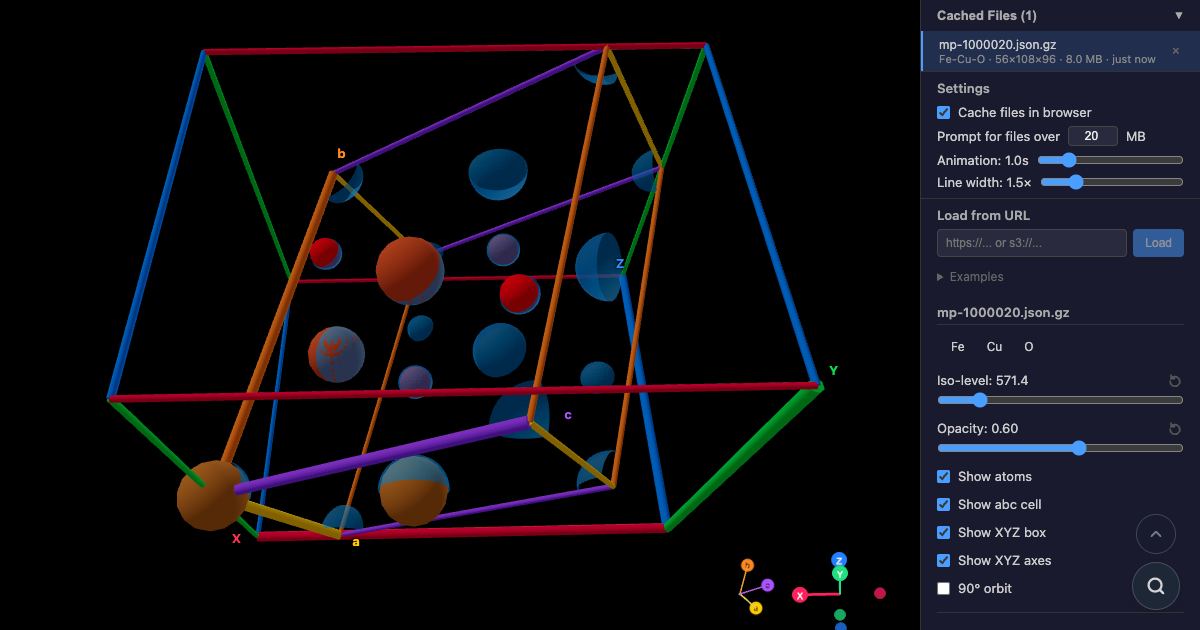
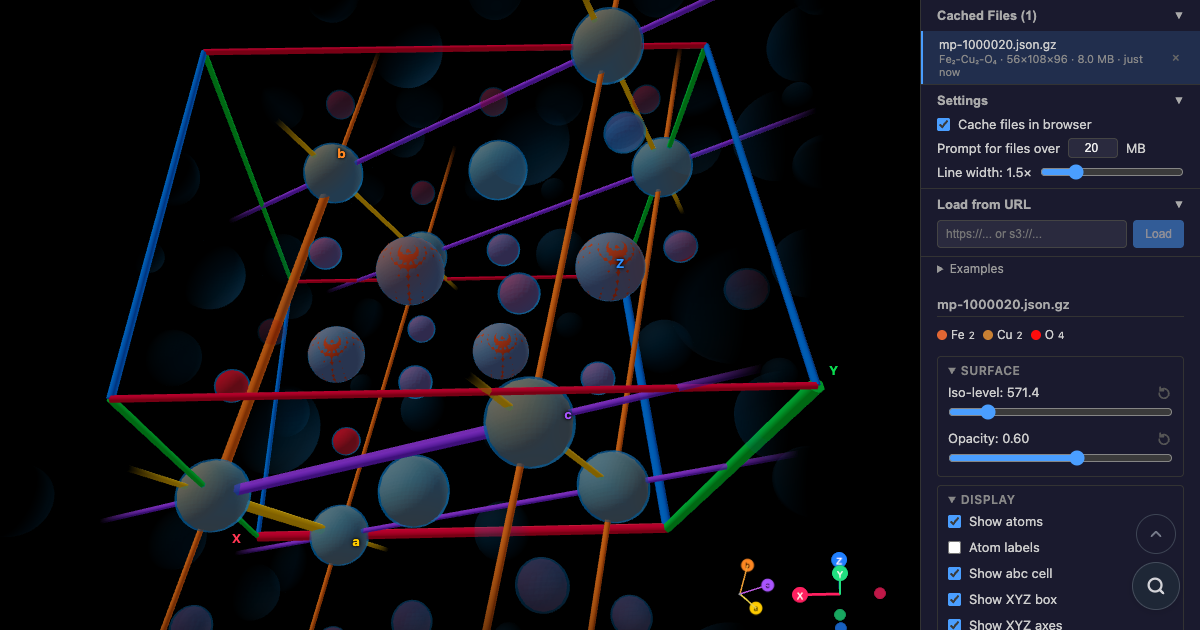
Regen screencasts, add tiling-slice-sweep GIF to README
- Regen all scrns: og-image, orbit-updown, slice-sweep, tiling-slice-sweep
- `tiling-slice-sweep` config: baked camera angle + `?ct=` pan offset
- README: add tiling-slice-sweep GIF, document new URL params (`ct`, `sl`, `ss`, `tp`, `nf`)

🤖 Generated with [Claude Code](https://claude.com/claude-code)

diff --git a/pkgs/static/scrns.config.ts b/pkgs/static/scrns.config.ts
@@ -45,6 +45,25 @@ const screens: ScreenshotsMap = {
       { type: 'wait', duration: 4000 },
     ],
   } satisfies ScreencastConfig,
+  'tiling-slice-sweep': {
+    query: '?iso=571.4&c=70.1+54.6+13.5+-88&od=30&si=0&a=0.5&tp=0.5&ss=20&ct=0.426+-0.56+-0.00378&sl',
+    width: 800,
+    height: 600,
+    selector: 'canvas',
+    preScreenshotSleep: 5000,
+    path: 'tiling-slice-sweep.gif',
+    fps: 30,
+    gifQuality: 10,
+    actions: [
+      { type: 'wait', duration: 500 },
+      { type: 'key', key: 'Meta+Shift+ArrowLeft', duration: 100 },
+      { type: 'wait', duration: 500 },
+      { type: 'key', key: 'Meta+ArrowRight', duration: 100 },
+      { type: 'wait', duration: 6000 },
+      { type: 'key', key: 'Meta+ArrowLeft', duration: 100 },
+      { type: 'wait', duration: 6000 },
+    ],
+  } satisfies ScreencastConfig,
 }
 
 export default screens

diff --git a/README.md b/README.md
@@ -10,6 +10,14 @@ Interactive 3D electron density viewer for VASP CHGCAR/ELFCAR files and [Materia
   </a>
 </p>
 
+**Periodic tiling with slice sweep:**
+
+<p align="center">
+  <a href="https://elvis.rbw.sh/?iso=571.4&c=70.1+54.6+13.5+-88&od=30&si=0&a=0.5&tp=0.5&ss=20&ct=0.426+-0.56+-0.00378&sl">
+    <img src="pkgs/static/public/scrns/tiling-slice-sweep.gif" alt="ELvis – Periodic tiling with slice sweep" width="600" />
+  </a>
+</p>
+
 ## Features
 
 - **Drag-and-drop** CHGCAR, ELFCAR, and `.npy` files
@@ -42,12 +50,17 @@ Or load a Materials Project example directly: [`elvis.rbw.sh/?m=mp-1000020`][dem
 | `iso` | Iso-level | `571.4` |
 | `op` | Opacity | `0.6` |
 | `c` | Camera: θ° φ° zoom roll° | `178.8 31.3 11.5` |
+| `ct` | Camera target offset (pan): dx dy dz | `0.426 -0.56 -0.004` |
 | `a` | Animation duration (seconds) | `2.0` |
 | `lw` | Line width multiplier | `1.5` |
 | `xb` | Show XYZ bounding box | (flag) |
 | `xa` | Show XYZ axes | (flag) |
 | `do` | Discrete 90° orbit | (flag) |
 | `si` | Slice index | `48` |
+| `sl` | Show slice plane | (flag) |
+| `ss` | Slice sweep speed (slices/s) | `20` |
+| `tp` | Tile padding (0–1) | `0.5` |
+| `nf` | Disable tile fade | (flag) |
 
 ## Screenshots
 
